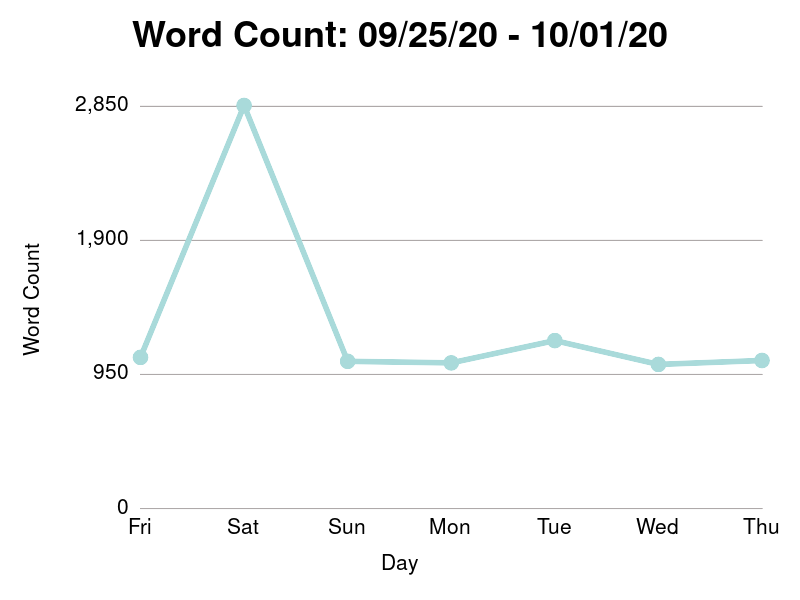
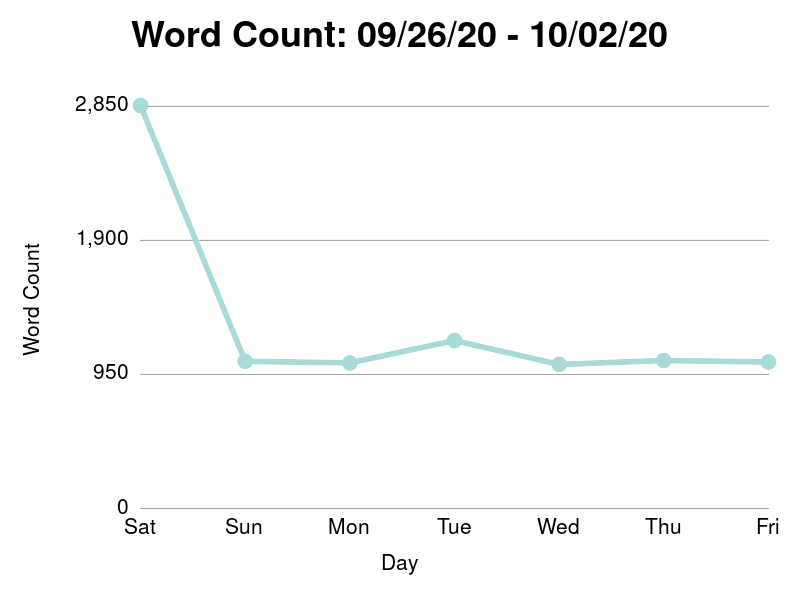
Post

diff --git a/entries/2020-10-02.md b/entries/2020-10-02.md
@@ -1,0 +1,130 @@
+---
+title: most improved baby, a lil' poke, and rodney's new book
+---
+
+Dear Journal,
+
+Good morning, my friends.  Happy Friday.  Congratulations on beating
+out another week, and making it all the way to Friday.  I'm grateful
+to be here, heading into a long, relaxing, cool fall weekend.
+
+This morning, the only two people awake in our house right now are me
+and baby Miles.  He wasn't making any noise, but instead just holding
+his hands and smiling.  I look back on just a few months ago where the
+running joke was that Miles was such a difficult baby that he surely
+had to have failed _baby school_.  If we're still running with that
+joke, then he gets a gold star for "most improved baby".  I rarely
+hear a peep out of him anymore.  Lately, his independence kind of
+reminds me of Maggie from the Simpsons, only minus the pacifier.  He
+still doesn't put up with pacifiers.  The only one we can get him to
+take is this little green one we keep in his crib, and he spits it out
+anyway.
+
+"It's silly, but it calms him down," says Marissa.  "I just hold it in
+his mouth when he's upset, and by the time he spits it out, he has
+forgotten what he was fussing about."
+
+_Sip_.  How are you doing today?  How's the morning going?  Today, I'm
+up a little earlier than usual, trying to wrap up my morning before a
+big meeting at 9 o'clock.  My team is meeting with our Edge
+infrastructure team based in Dublin.
+
+I love the folks on our team in Ireland.  They're always in such a
+good mood.  Although I have to wonder if that's because of time zones.
+At my 9 AM this morning, it will be their 3 PM, Friday afternoon of
+course, and I'm usually in a pretty good mood on Friday afternoon as
+well.
+
+It will be a busy day today, for sure.  A big meeting this morning.
+Wrapping up a quarter.  Kicking off a new team structure next week.
+And I'm also getting a part time intern to work with over the next few
+weeks.
+
+Our Thursday was pretty good.  At the risk of sounding like a broken
+record, my new chair was easily yesterday's highlight.  I was so
+comfortable, I didn't even make as many coffee trips downstairs as I
+normally do.  The longer I sat in my office, the more enthralled I
+became with how eerily precise the fit was.  The little plush head
+rest sits just below the ball at the base of my skull.  The arm rests
+are somehow perfectly level with my keyboard.  For a chair that I
+selected off amazon in about five minutes, you would think I poured a
+week of research into it based on how many details I got right.
+Sometimes the universe is good to you, and the details just work
+themselves out without bothering you, right?
+
+"This is the worst chair ever," said Marissa, taking it for a test
+drive.  "For short people."  The head rest sat directly behind her
+head, pushing her eyes down, like she was glaring at somebody.  The
+curve in the back was the complete opposite of her spine.
+
+"Well I have good news for you," she said getting up.  "That chair is
+all yours.  I don't think I can ever sit in it."
+
+As I worked upstairs, Rodney and Marissa made their way to the clinic
+for Rodney's _lil' poke_.  He returned an hour later with a large
+mango smoothie.
+
+"How did it go, dude?" I asked.
+
+"I got a _lil' poke_," said Rodney, starting from the beginning.
+
+"Did the doctor ask you any questions?" I asked.
+
+"Uhhh, nope," said Rodney.  "Just gave me a little poke, then I got a
+BIG smoothie."
+
+"Did you cry?" I asked.
+
+Rodney nodded.
+
+"He kinda screamed...," said Marissa quietly.  She mouthed the words
+_bloody murder_.
+
+I wrapped up the work day.  While Marissa cooked up a chicken salad
+for dinner, Rodney and I hung around the living room watching YouTube
+videos.  We had a video call with Mimi and Papa.  I sent Rodney
+upstairs to get ready for bed, meeting him a few minutes later for a
+bedtime story.
+
+"Dada, let's read _this_ book," said Rodney, grabbing his tattered Paw
+Patrol story book off the shelf.  "This is a _new_ book."  He bulged
+his eyes and held the book out to me.
+
+"What do you mean this is a _new_ book?" I asked.  "You've had this
+book for a really long time.  Half the cover is missing."
+
+"No, dada," protested Rodney.  "It's new."
+
+He said the same thing the night before.  He wanted to read this exact
+book, claiming it was _new_.
+
+"Alright, dude, if you want," I said, grabbing a seat on his bed.
+"This book is only like six pages though.  But it's your story time."
+
+Rodney grabbed a seat in my lap, raking his posse of stuffed animals
+on top of us, flipping the corner of his blanket over our feet.
+
+"Rocky and Rubble," I read unceremoniously staring at the front cover.
+I turned to the first page.  I started to laugh.
+
+The inside of the book was covered in crayon and marker.  Dark,
+focused, crazy scribbles.  The blue sky blotted out with dark crayon.
+Ryder was blotted out with dark crayon.  And Rocky and Rubble, front
+and center on the first page, had the whites of their eyes filled with
+with dark green and dark orange.  Every square inch of color in the
+book was blotted out with dark crayon and streaks of marker.
+
+"See dada," said Rodney.  "It's a _new_ book."  As I read on, I began
+to laugh more loudly, each page more surreal and bizarre than the
+last.  Rodney bounced on my stomach as I laughed.
+
+"It was like some kind of psycho Van Gogh painting," I told Marissa.
+"It must have taken him forever, and it's even funnier thinking about
+how he tried to show me the day before, and I wrote him off.  I was
+like 'no, that is not a new book, put it away'.  So he just waited."
+
+{% include figure.html filename='colored-paw-patrol-book.jpg' %}
+
+Rodney is a funny kid.  I didn't know he had the capacity to surprise
+me like that.  Thanks for stopping by today, have a great day
+everyone.
